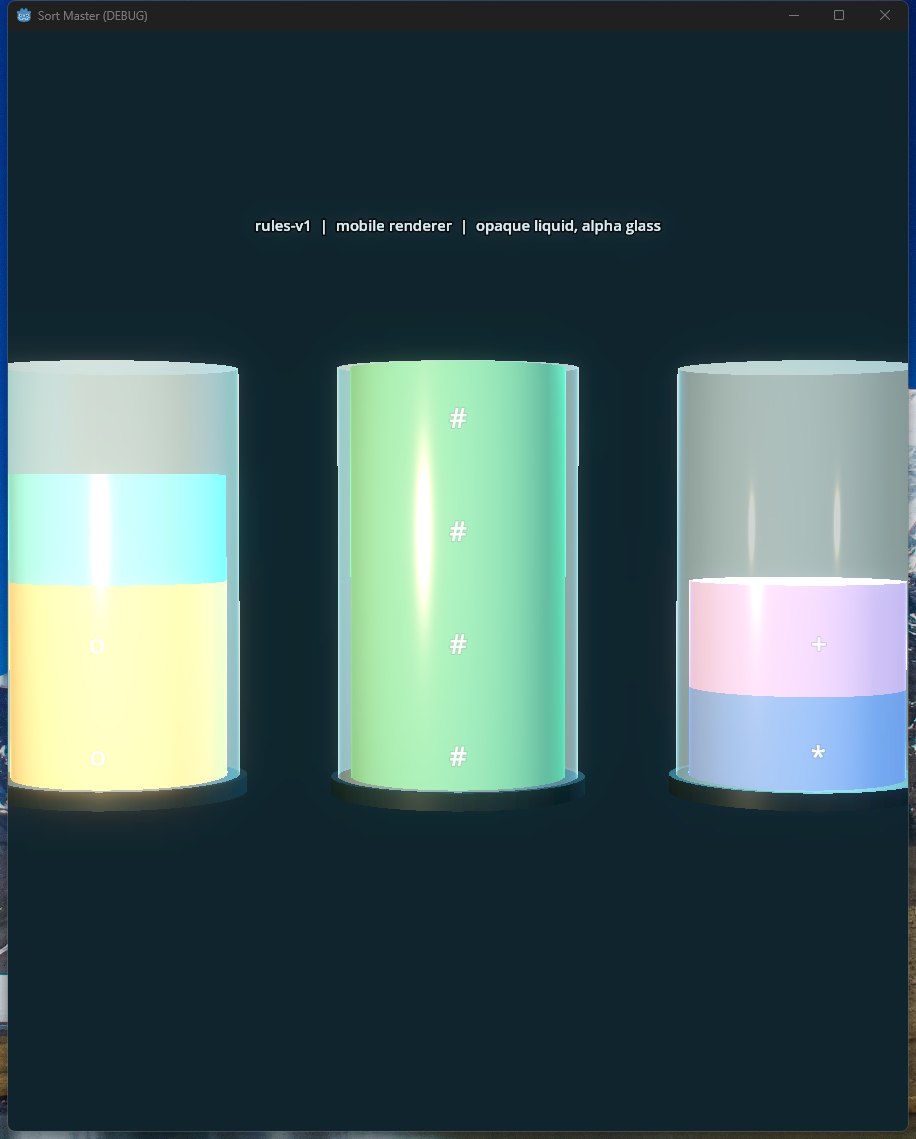
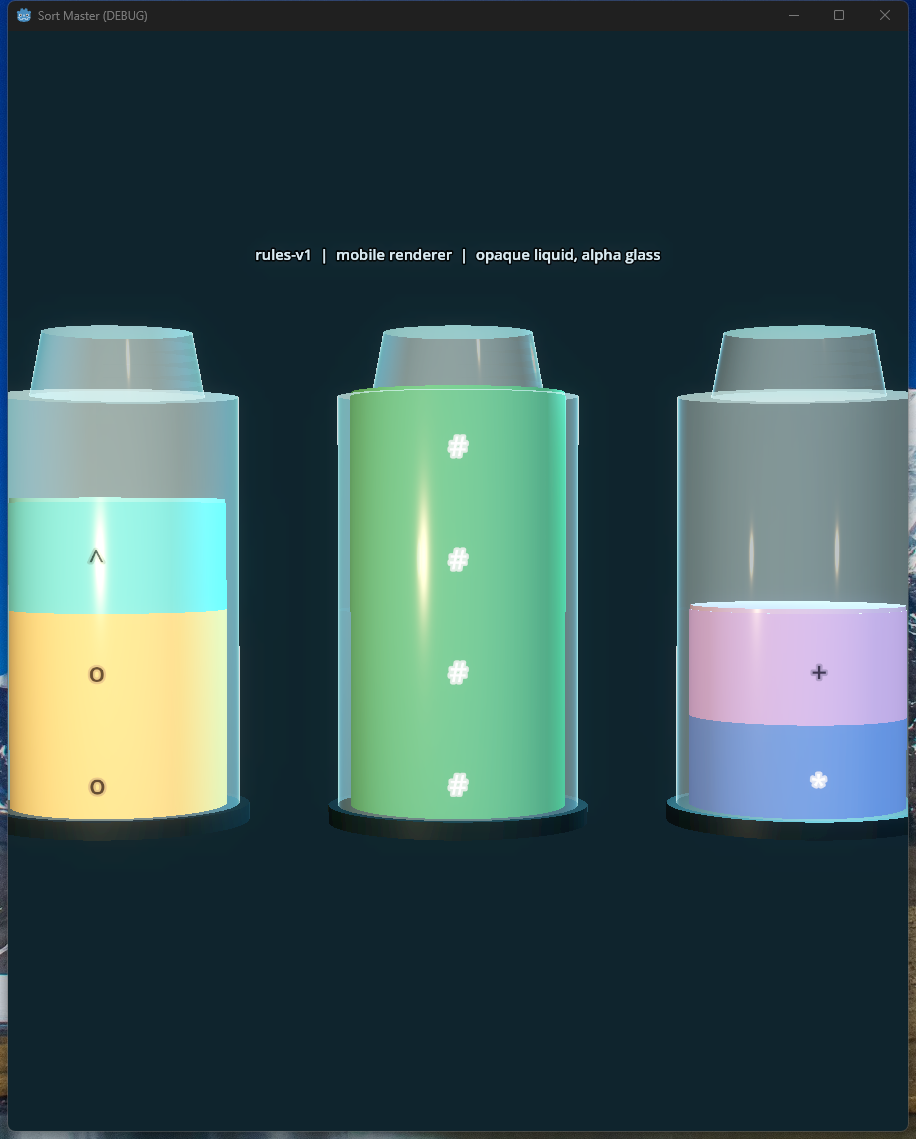
feat: vessel pass 2 - saturation, glyph ink, neck, meniscus, two-angle evidence

diff --git a/docs/g2-vessel-validation.md b/docs/g2-vessel-validation.md
@@ -74,3 +74,29 @@ The approach is sound enough to proceed with:
 - profile on hardware **when the owner re-enables device testing** — until then, treat performance as unknown.
 
 Until the hardware pass happens, the 2D placeholder vessels remain in the shipping build. The spike proves the pipeline and the look, not the frame budget.
+
+---
+
+## 7. Second pass — colour, glyphs, neck and meniscus
+
+The first pass left four known weaknesses. All four were addressed in the same isolated scene.
+
+| Weakness | Change | Result |
+|---|---|---|
+| Palette washed toward pastel | Ambient 0.22 → 0.16, key 0.95 → 0.80, fill 0.55 → 0.40; liquid albedo darkened 6 % plus a small emissive term (0.18) to hold saturation through the Filmic tonemap | Green, amber, cyan and violet now read as themselves |
+| Glyph contrast | Ink chosen by liquid luminance: near-black on light liquids, white on dark, with an opposing outline | Legible on every band, including amber |
+| No neck or mouth | Tapered neck (62–72 % radius, 45 mm) added above the body | The vessel reads as a vessel, not a tube |
+| No meniscus | Thin lighter disc at the liquid surface, inset to 99 % of the liquid radius | The surface is visible as a distinct plane |
+
+A torus lip and a torus meniscus ring were tried first and **removed**: at these dimensions they rendered as floating hoops and read as artefacts, not detail. Recorded so it is not re-attempted.
+
+### Evidence
+
+| File | Angle |
+|---|---|
+| `docs/evidence/g2-vessel-validation.png` | Gameplay angle — three vessels, three fill states |
+| `docs/evidence/g2-vessel-detail.png` | Detail three-quarter — one full vessel, neck and meniscus visible |
+
+### What is still true
+
+Everything in section 5 still holds. Nothing here has been run on Android. Glow, alpha fill-rate, thermal behaviour and the Mobile-versus-Compatibility choice remain unmeasured, and no performance claim is made.
